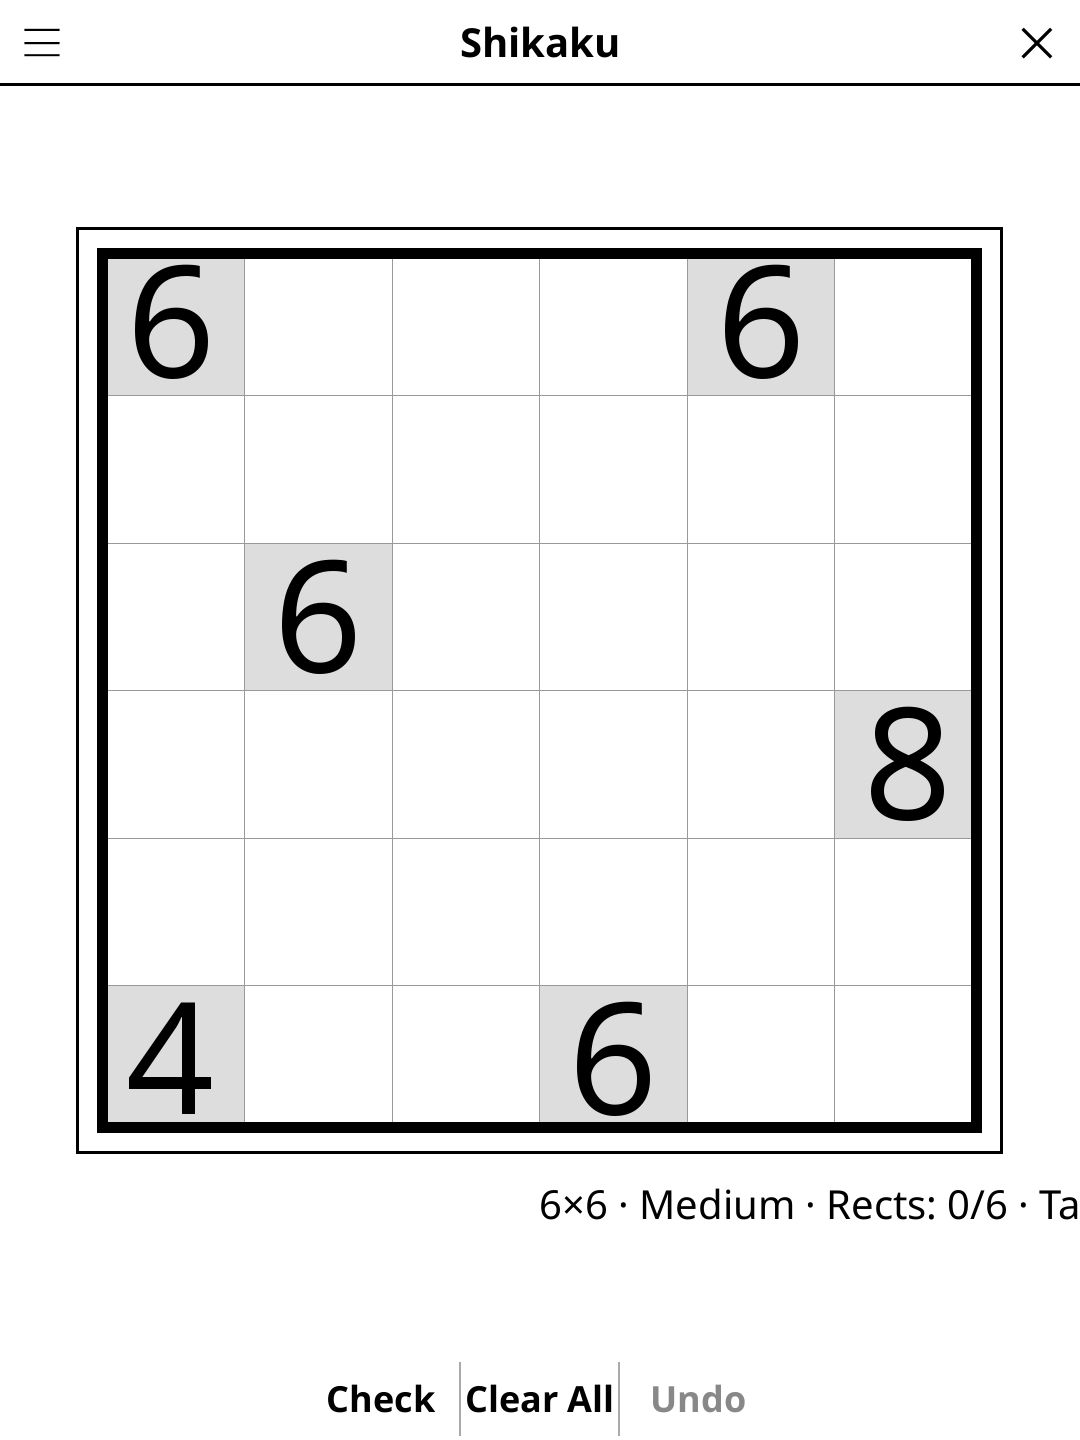
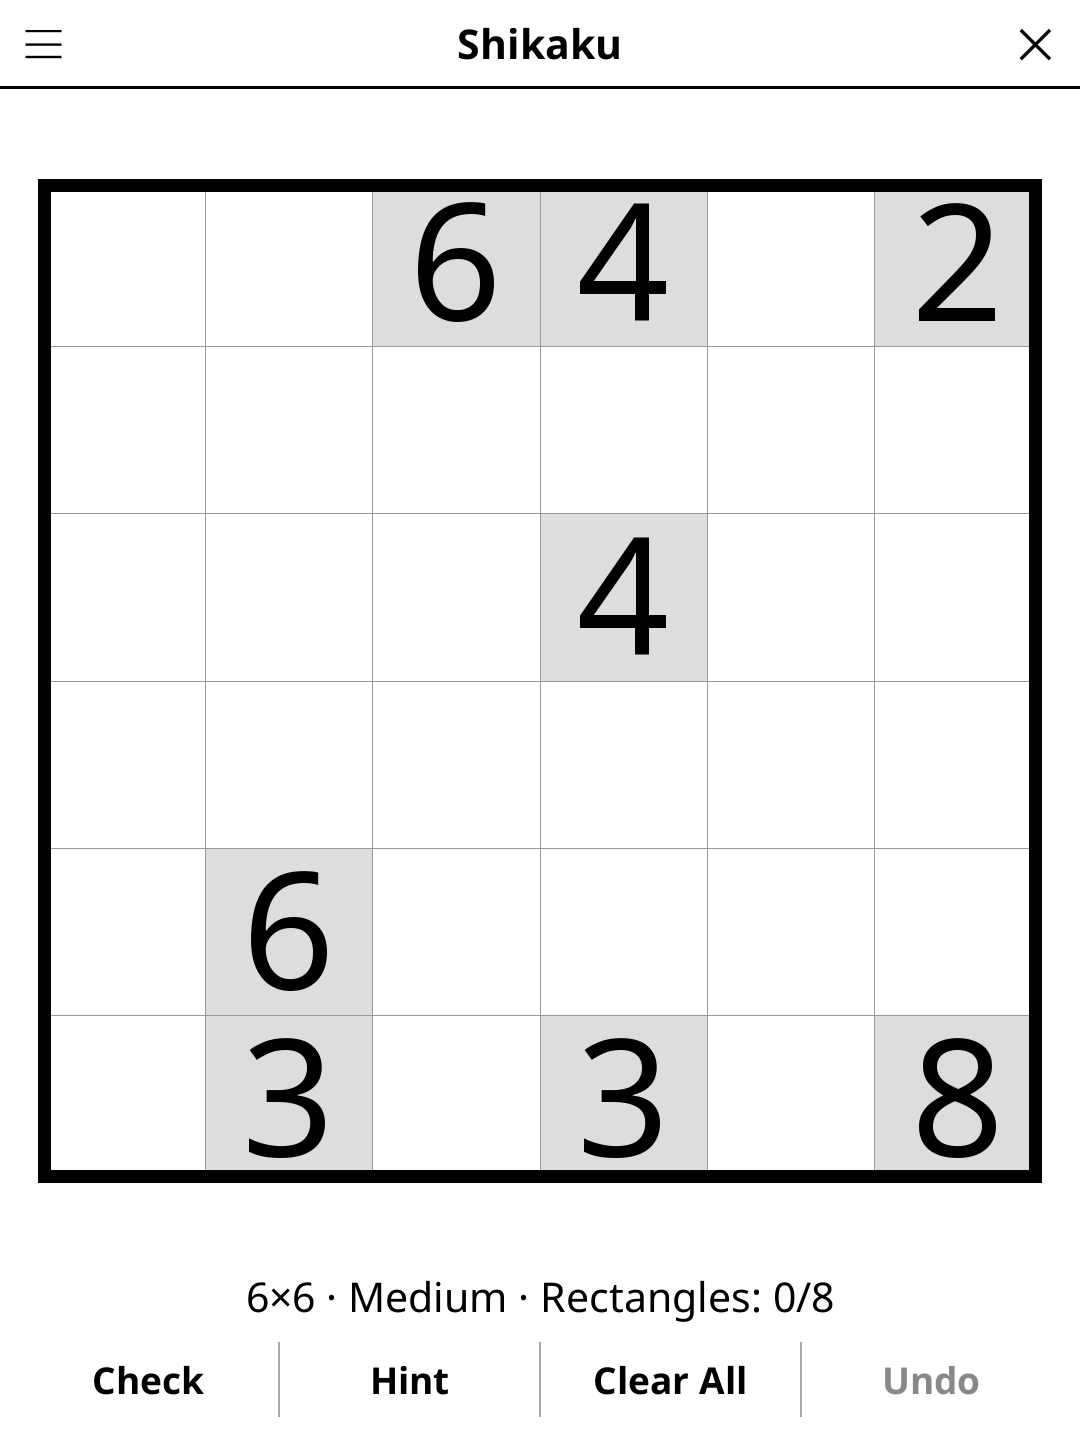
release: 1.3.0 -- redesigned screen, harmonised menu, New game at round end
Screen redesign (full-width action bar, unified pad, status line, larger
board), harmonised title-bar menu, and a "New game" button once the round
is over. See CHANGELOG.md.

diff --git a/CHANGELOG.md b/CHANGELOG.md
@@ -2,6 +2,27 @@
 
 All notable changes to this project will be documented in this file.
 
+## [1.3.0] - 2026-10-30
+
+### Changed
+- Redesigned play screen: the board is larger, filling the room the controls
+  leave, with a full-width action bar under the status line and a single
+  frame around the board.
+- The status line reads "8×8 · Medium · Rectangles: 3/12" and wraps in
+  landscape instead of being cut off. The "Tap two corners" reminder it used
+  to carry is in the rules.
+- The title-bar menu shows "Size: …" and "Difficulty: …" (was "Grid: …" and
+  "Diff: …"), like every other game.
+- Once the puzzle is solved, the action bar shows "New game" in place of
+  Check/Hint/Clear All/Undo, so the next round no longer needs the menu.
+
+### Fixed
+- Tapping Undo crashed ("attempt to call method 'undo'").
+- Clue numbers overflowed their cells: the font was sized for one digit,
+  but areas reach two. It is now fitted to the widest clue on the board.
+- Using a hint wiped the saved game; it is now kept. When a hint completes
+  the puzzle, the status shows the win message.
+
 ## [1.2.2] - 2026-10-07
 
 ### Fixed

diff --git a/README.md b/README.md
@@ -33,7 +33,7 @@ Divide the grid into rectangles. Each rectangle contains exactly one number equa
 | Draw a rectangle | Tap start cell, then end cell |
 | Remove a rectangle | Tap inside it |
 | Check progress | Tap **Check** |
-| New puzzle | Tap **New** |
+| New puzzle | Tap **New game** |
 | Show rules | Tap **Rules** |
 
 ## License
